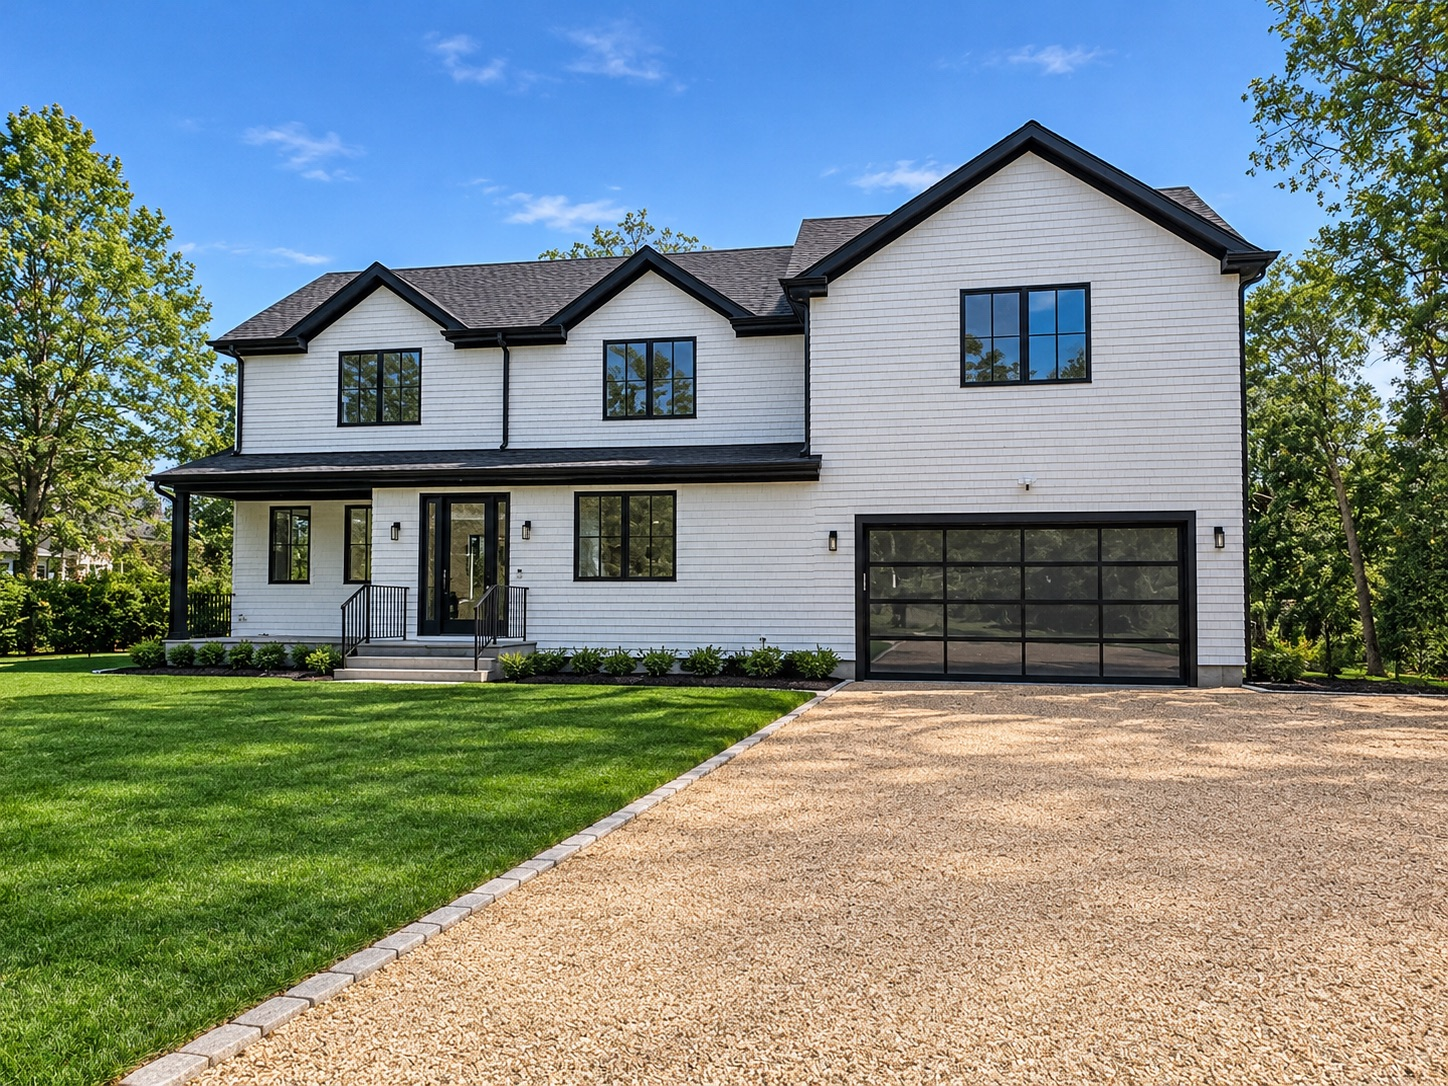
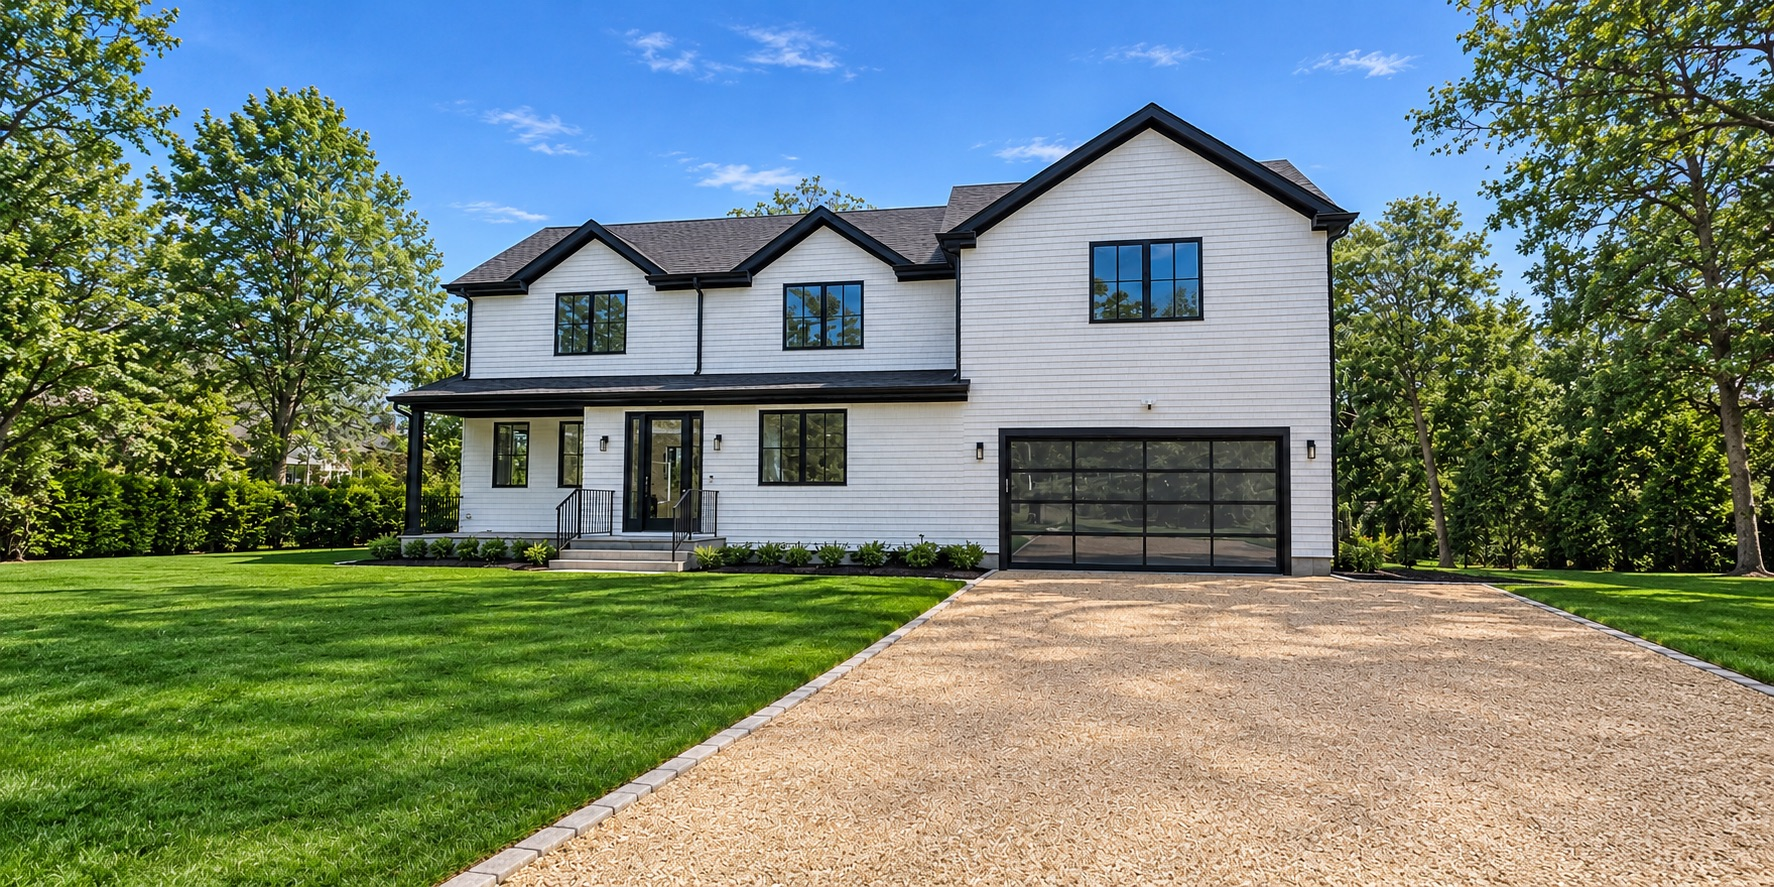
Home: hero slideshow uses the widened photos
Outpainted versions of the five hero photos, about 2:1 to 2.7:1, so the
framed hero shows the whole house on desktop instead of trimming sky and
lawn. Crops reset to centre.

diff --git a/index.html b/index.html
@@ -73,11 +73,11 @@
   <section class="hero" data-slideshow aria-roledescription="carousel" aria-label="Featured projects">
     <h1 class="sr-only">MLC Architecture P.C.: Full Residential &amp; Commercial Architectural Services</h1>
     <div class="hero__bg">
-      <figure class="slide is-active" role="group" aria-roledescription="slide" aria-label="1 of 5" style="--pos: 50% 15%"><img src="assets/img/hero/hero-1.jpg" alt="White shingle house with black windows, glass garage door and gravel drive" width="1448" height="1086" fetchpriority="high"></figure>
-      <figure class="slide" role="group" aria-roledescription="slide" aria-label="2 of 5" style="--pos: 50% 10%"><img data-src="assets/img/hero/hero-2.jpg" alt="White farmhouse, rear elevation across the pool" width="1536" height="1024"></figure>
-      <figure class="slide" role="group" aria-roledescription="slide" aria-label="3 of 5" style="--pos: 50% 18%"><img data-src="assets/img/hero/hero-3.jpg" alt="White shingle two-story house with front porch and attached garage" width="1448" height="1086"></figure>
-      <figure class="slide" role="group" aria-roledescription="slide" aria-label="4 of 5" style="--pos: 50% 28%"><img data-src="assets/img/hero/hero-4.jpg" alt="Blue-gray shingle house with white trim, dormers and a front porch" width="1448" height="876"></figure>
-      <figure class="slide" role="group" aria-roledescription="slide" aria-label="5 of 5" style="--pos: 50% 26%"><img data-src="assets/img/hero/hero-5.jpg" alt="Gray shingle and stone ranch house with an arched entry" width="1422" height="1066"></figure>
+      <figure class="slide is-active" role="group" aria-roledescription="slide" aria-label="1 of 5" style="--pos: 50% 50%"><img src="assets/img/hero/hero-1.jpg" alt="White shingle house with black windows, glass garage door and gravel drive" width="1774" height="887" fetchpriority="high"></figure>
+      <figure class="slide" role="group" aria-roledescription="slide" aria-label="2 of 5" style="--pos: 50% 50%"><img data-src="assets/img/hero/hero-2.jpg" alt="White farmhouse, rear elevation across the pool" width="2048" height="768"></figure>
+      <figure class="slide" role="group" aria-roledescription="slide" aria-label="3 of 5" style="--pos: 50% 50%"><img data-src="assets/img/hero/hero-3.jpg" alt="White shingle two-story house with front porch and attached garage" width="1774" height="887"></figure>
+      <figure class="slide" role="group" aria-roledescription="slide" aria-label="4 of 5" style="--pos: 50% 50%"><img data-src="assets/img/hero/hero-4.jpg" alt="Blue-gray shingle house with white trim, dormers and a front porch" width="1894" height="830"></figure>
+      <figure class="slide" role="group" aria-roledescription="slide" aria-label="5 of 5" style="--pos: 50% 50%"><img data-src="assets/img/hero/hero-5.jpg" alt="Gray shingle and stone ranch house with an arched entry" width="2007" height="783"></figure>
     </div>
     <div class="hero__foot">
       <div class="hero__tabs" data-slideshow-ui hidden>
